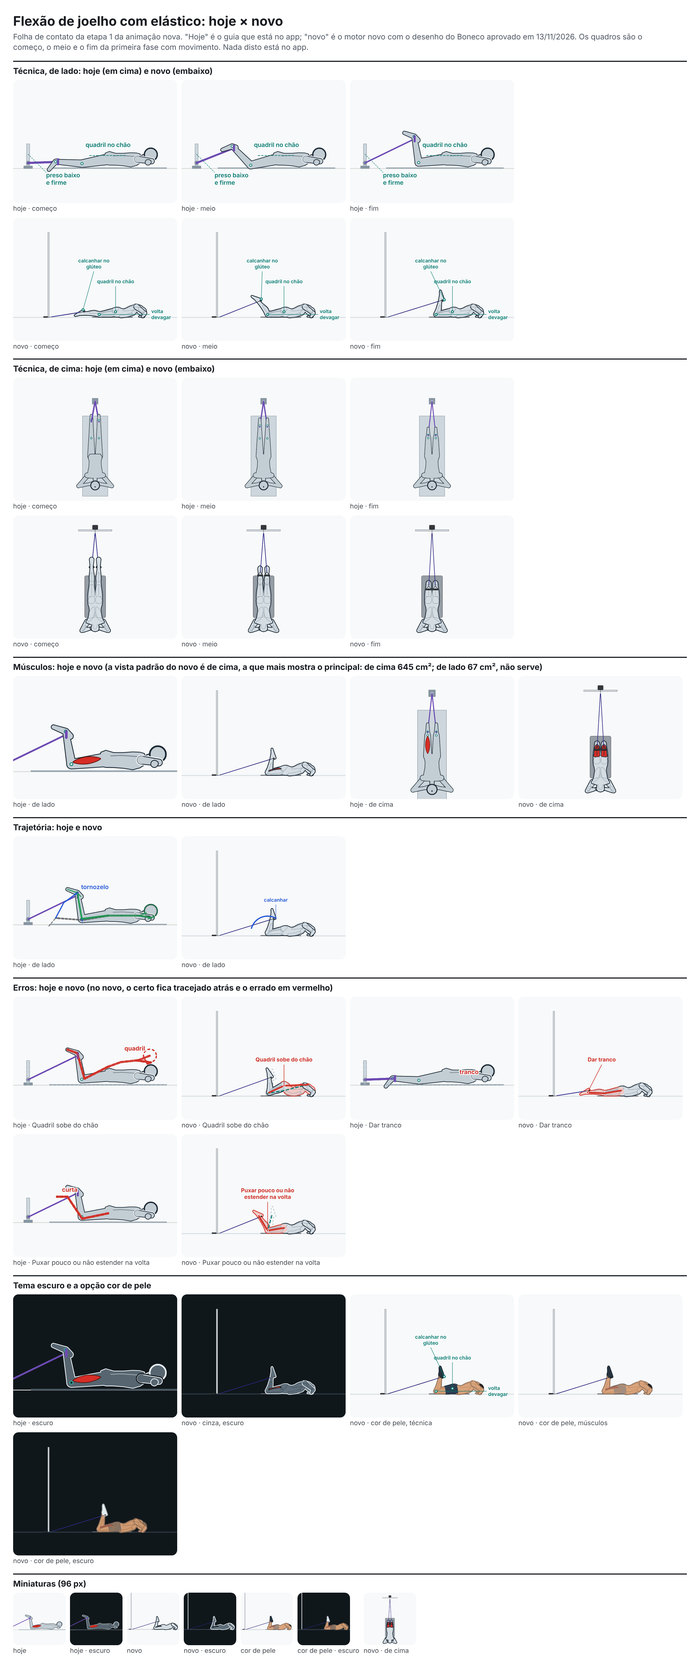
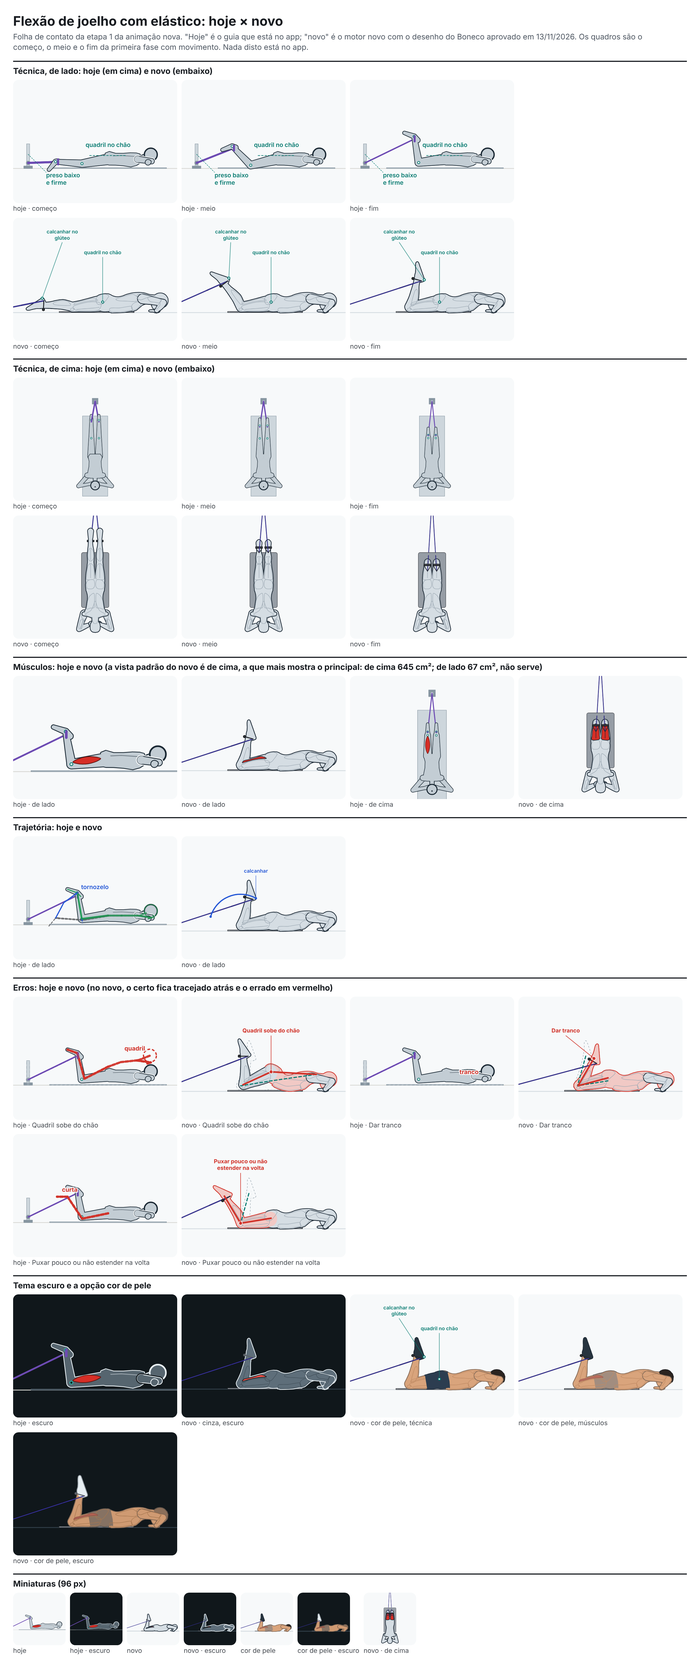
Correção: flexão de joelho com elástico com a porta como cenário, o tórax deitado reto, o pé dentro do pegador e a porta com batente
Claude-Session: https://claude.ai/code/session_01YRzts7dTzBdkrmTDEnq8bW

diff --git a/src/engine/novo/exercicios/flexao-joelho-elastico.ts b/src/engine/novo/exercicios/flexao-joelho-elastico.ts
@@ -1,14 +1,17 @@
 // Flexão de joelho com elástico, no motor novo. Os números vêm da ficha (../dados/movimentos/flexao-joelho-elastico.json);
 // a pose de bruços é a do núcleo ./flexao-joelho.ts. Deitado de bruços num colchonete, a testa no dorso das mãos, o
 // meio do elástico em tubo preso na alça de uma âncora de porta, embaixo de uma porta fechada atrás dos pés, e os
-// pegadores em volta dos dois tornozelos, por trás. Os joelhos dobram trazendo os calcanhares ao glúteo, com o quadril
+// pés enfiados nos pegadores, que dão a volta nos tornozelos, com o tubo saindo de trás. Os joelhos dobram trazendo os calcanhares ao glúteo, com o quadril
 // no colchonete. A porta fica longe o bastante para o elástico já estar um pouco esticado com as pernas estendidas.
+// A porta, a âncora e a parte do tubo perto delas são cenário: o quadro mostra o corpo e o tubo sai pela borda.
 import ficha from '../dados/movimentos/flexao-joelho-elastico.json';
 import type { Esq, Lado } from '../esqueleto';
 import { daFicha, fichaSchema, resolver1 } from '../movimento';
 import type { Exercicio, Quadro } from '../movimento';
 import { chao, colchonete } from '../pecas';
 import type { Peca } from '../pecas';
+import type { PecaPropria } from '../pecas';
+import { pegadorNoTornozelo } from '../pecas-de-cena/pegador-no-tornozelo';
 import { portaComAncora } from '../pecas-de-cena/porta-com-ancora';
 import type { Corpo } from '../tabelas';
 import { obj } from '../tabelas';
@@ -20,33 +23,43 @@ const F = fichaSchema.parse(ficha);
 const f = daFicha(F);
 const CACHE = new WeakMap<Corpo, { zPorta: number }>();
 
-function pose(corpo: Corpo, u: number, sobe = 0): Esq {
+function pose(corpo: Corpo, u: number, sobe = 0, alem = 0): Esq {
   return deitadoDeBrucos(corpo, {
     apoio: obj('colchonete', 'esp'),
     testa: f('testa.altura'),
     punhosMeiaDistancia: f('maos.meiaDistancia'),
-    joelho: mix(f('joelho.inicio'), f('joelho.fim'), u),
+    joelho: mix(f('joelho.inicio'), f('joelho.fim'), u) + alem,
     flexaoPlantar: f('tornozelo.flexaoPlantar'),
     quadrilSobe: sobe,
+    lombar: f('lombar.deitado'),
+    prot: f('escapulas.protracao'),
   });
 }
-/** O centro do pegador, atrás do tornozelo e logo acima do calcanhar. */
-function pegada(corpo: Corpo, e: Esq, k: Lado): V3 {
+/** Onde a fita do pegador se junta, atrás do tornozelo e logo acima do calcanhar: é a ponta do tubo. */
+function ponta(corpo: Corpo, e: Esq, k: Lado): V3 {
   const L = e.lado[k];
-  const tras = mul(L.canela.z, -1);
-  return add(add(L.tornozelo, mul(L.canela.y, f('elastico.acimaDoTornozelo'))), mul(tras, corpo.m('raio.tornozelo') + obj('elastico', 'pegadorDiam') / 2));
+  return add(add(L.tornozelo, mul(L.canela.y, f('elastico.acimaDoTornozelo'))), mul(L.canela.z, -(corpo.m('raio.tornozelo') + obj('elastico', 'fita') * 0.35)));
 }
 /** O caminho do tubo: da ponta de um pegador à alça da âncora e dela à ponta do outro. */
 function tubo(corpo: Corpo, e: Esq, alca: V3) {
-  const ponta = (k: Lado) => {
-    const g = pegada(corpo, e, k);
-    return add(g, mul(norm(sub(alca, g)), obj('elastico', 'fita')));
-  };
   // o tubo dá a volta na alça: os dois trechos chegam a ela a 1 cm um do outro
-  const pts: V3[] = [ponta('R'), add(alca, [-0.5, 0, 0]), add(alca, [0.5, 0, 0]), ponta('L')];
+  const pts: V3[] = [ponta(corpo, e, 'R'), add(alca, [-0.5, 0, 0]), add(alca, [0.5, 0, 0]), ponta(corpo, e, 'L')];
   let comp = 0;
   for (let i = 1; i < pts.length; i++) comp += dist(pts[i - 1]!, pts[i]!);
   return { pts, comp };
+}
+/** O trecho do tubo longe do corpo, até a alça, desenhado como cenário (atrás do corpo e fora do enquadramento). */
+function tuboAteAPorta(pts: V3[], estica: number): PecaPropria {
+  return {
+    t: 'propria',
+    nome: 'tubo-ate-a-porta',
+    cenario: true,
+    desenhar(C, M) {
+      const d = obj('elastico', 'tuboDiam') / Math.sqrt(Math.max(1, estica));
+      C.polilinha(pts, M.estofado[3]!, d + 0.5);
+      C.polilinha(pts, M.estofado[1]!, d);
+    },
+  };
 }
 /** A porta fica onde o elástico estica o que a ficha pede com as pernas quase estendidas. */
 function calibrar(corpo: Corpo) {
@@ -63,17 +76,23 @@ function calibrar(corpo: Corpo) {
 function quadro(corpo: Corpo, u: number, erro?: string): Quadro {
   const c = calibrar(corpo);
   let v = u;
-  if (erro === 'tranco') v = 1 - (1 - u) ** 3;
   if (erro === 'curta') v = mix(f('erro.curta.volta'), f('erro.curta.ida'), u);
-  const e = pose(corpo, v, erro === 'quadril' ? f('erro.quadril.sobe') * u : 0);
+  // tranco: no embalo, os calcanhares passam do fim e o quadril descola um pouco do colchonete
+  const sobe = erro === 'quadril' ? f('erro.quadril.sobe') * u : erro === 'tranco' ? f('erro.tranco.quadril') * u : 0;
+  const e = pose(corpo, v, sobe, erro === 'tranco' ? f('erro.tranco.alem') * u : 0);
   const porta = portaComAncora(c.zPorta, f('ancora.altura'));
   const t = tubo(corpo, e, porta.alca);
   const estica = t.comp / obj('elastico', 'comp');
   const zCol = f('colchonete.z');
-  const pecas: Peca[] = [{ t: 'colchonete', x0: 0, z0: zCol }, ...porta.pecas, { t: 'elastico', pts: t.pts, estica }];
+  // perto do corpo, o tubo é a peça do elástico (no enquadramento); dali até a alça, cenário
+  const [pR, , , pL] = t.pts as [V3, V3, V3, V3];
+  const corte = (p: V3) => add(p, mul(norm(sub(porta.alca, p)), f('elastico.noQuadro')));
+  const cR = corte(pR),
+    cL = corte(pL);
+  const pecas: Peca[] = [{ t: 'colchonete', x0: 0, z0: zCol }, ...porta.pecas, tuboAteAPorta([cR, t.pts[1]!, t.pts[2]!, cL], estica), { t: 'elastico', pts: [pR, cR], estica }, { t: 'elastico', pts: [pL, cL], estica }];
   for (const k of ['R', 'L'] as Lado[]) {
-    const g = pegada(corpo, e, k);
-    pecas.push({ t: 'pegador', pegada: g, eixo: e.lado[k].canela.x, ponta: k === 'R' ? t.pts[0]! : t.pts[t.pts.length - 1]! });
+    const L = e.lado[k];
+    pecas.push(pegadorNoTornozelo(L.canela, L.tornozelo, f('elastico.acimaDoTornozelo'), corpo.m('raio.tornozelo'), k === 'R' ? pR : pL));
   }
   return {
     esq: e,
@@ -81,7 +100,7 @@ function quadro(corpo: Corpo, u: number, erro?: string): Quadro {
     pecas,
     fios: [{ id: 'elastico', comp: t.comp, estica: true }],
     cargas: [],
-    marcas: { pegadaR: pegada(corpo, e, 'R'), alca: porta.alca },
+    marcas: { pegadaR: pR, alca: porta.alca },
   };
 }
 

diff --git a/src/engine/novo/exercicios/flexao-joelho.ts b/src/engine/novo/exercicios/flexao-joelho.ts
@@ -205,6 +205,10 @@ export interface OpcoesDeBrucos {
   flexaoPlantar: number;
   /** Quanto a bacia sobe do colchonete (erro do quadril), em cm; o peito e os joelhos ficam onde estão. */
   quadrilSobe?: number;
+  /** Flexão da lombar além da curva de repouso (graus), deitado (acréscimo de 15/11: o tórax fica deitado reto). */
+  lombar?: number;
+  /** Protração das escápulas (graus da clavícula): os ombros descem para o colchonete com os braços à frente. */
+  prot?: number;
 }
 interface BaseDeBrucos {
   frente: number;
@@ -223,21 +227,22 @@ const AMASSA = 1.5;
 const frenteAoChao = (corpo: Corpo, t: Tronco) => Math.min(peitoAoChao(corpo, t), barrigaAoChao(corpo, t) + AMASSA);
 /** A parte que não muda no ciclo: a inclinação da bacia, a altura dela, a cabeça nas mãos e a coxa no colchonete. */
 function baseDeBrucos(corpo: Corpo, o: OpcoesDeBrucos): BaseDeBrucos {
-  const chave = `${o.apoio}|${o.testa}`;
+  const chave = `${o.apoio}|${o.testa}|${o.lombar ?? 0}`;
   let mapa = BASE_DE_BRUCOS.get(corpo);
   if (!mapa) BASE_DE_BRUCOS.set(corpo, (mapa = new Map()));
   const ja = mapa.get(chave);
   if (ja) return ja;
   // 1) a frente da bacia e a barriga (que amassa AMASSA cm) ficam na mesma altura; o corpo desce até encostar no
   //    colchonete. O peito encosta junto ou fica um pouco acima (os braços estão à frente da cabeça).
-  const t0 = (frente: number) => resolverTronco(corpo, { pelve: [0, 0, 0], frente });
+  const L0 = o.lombar ?? 0;
+  const t0 = (frente: number) => resolverTronco(corpo, { pelve: [0, 0, 0], frente, lombar: L0 });
   const frente = resolver1((fr) => pelveAoChao(corpo, t0(fr)) - Math.min(peitoAoChao(corpo, t0(fr)), barrigaAoChao(corpo, t0(fr)) + AMASSA), 70, 110, 30);
   const tf = t0(frente);
   const yP = o.apoio - Math.min(peitoAoChao(corpo, tf), pelveAoChao(corpo, tf), barrigaAoChao(corpo, tf) + AMASSA);
   // 2) a testa apoia no dorso das mãos
-  const cervical = resolver1((c) => cabecaAoChao(corpo, resolverTronco(corpo, { pelve: [0, yP, 0], frente, cervical: c })) - o.testa, -40, 60, 30);
+  const cervical = resolver1((c) => cabecaAoChao(corpo, resolverTronco(corpo, { pelve: [0, yP, 0], frente, lombar: L0, cervical: c })) - o.testa, -40, 60, 30);
   // 3) a coxa, reta, encosta no colchonete
-  const t = resolverTronco(corpo, { pelve: [0, yP, 0], frente, cervical });
+  const t = resolverTronco(corpo, { pelve: [0, yP, 0], frente, lombar: L0, cervical });
   const solto: PoseBraco = { umero: [0, -1, 0], antebraco: [0, -1, 0], polo: [0, 0, -1], mao: { polegar: [0, 0, 1] } };
   const coxa = (a: number) => {
     const p: PosePerna = { coxa: noPlano(a), canela: noPlano(a), polo: noPlano(a - 90) };
@@ -253,8 +258,9 @@ function baseDeBrucos(corpo: Corpo, o: OpcoesDeBrucos): BaseDeBrucos {
 export function deitadoDeBrucos(corpo: Corpo, o: OpcoesDeBrucos): Esq {
   const m = (id: string) => corpo.m(id);
   const b = baseDeBrucos(corpo, o);
+  const L0 = o.lombar ?? 0;
   let frente = b.frente,
-    lombar = 0,
+    lombar = L0,
     yP = b.yP,
     cervical = b.cervical;
   const sobe = o.quadrilSobe ?? 0;
@@ -262,10 +268,11 @@ export function deitadoDeBrucos(corpo: Corpo, o: OpcoesDeBrucos): Esq {
     // a bacia sobe e gira (o quadril dobra), a lombar dobra o mesmo tanto ao contrário: o peito fica no colchonete,
     // na mesma inclinação, e a testa continua nas mãos
     yP = b.yP + sobe;
-    const tr = (L: number, c = b.cervical) => resolverTronco(corpo, { pelve: [0, yP, 0], frente: b.frente + L, lombar: -L, cervical: c });
-    lombar = -resolver1((L) => frenteAoChao(corpo, tr(L)) - o.apoio, 0, 70, 30);
-    frente = b.frente - lombar;
-    cervical = resolver1((c) => cabecaAoChao(corpo, tr(-lombar, c)) - o.testa, -40, 60, 30);
+    const tr = (L: number, c = b.cervical) => resolverTronco(corpo, { pelve: [0, yP, 0], frente: b.frente + L, lombar: L0 - L, cervical: c });
+    const giro = resolver1((L) => frenteAoChao(corpo, tr(L)) - o.apoio, 0, 70, 30);
+    lombar = L0 - giro;
+    frente = b.frente + giro;
+    cervical = resolver1((c) => cabecaAoChao(corpo, tr(giro, c)) - o.testa, -40, 60, 30);
   }
   const t = resolverTronco(corpo, { pelve: [0, yP, 0], frente, lombar, cervical });
   // as mãos lado a lado, espalmadas no chão sob a testa, com os dedos para o meio e os cotovelos para fora
@@ -273,7 +280,7 @@ export function deitadoDeBrucos(corpo: Corpo, o: OpcoesDeBrucos): Esq {
   const fronte = cab.reduce((a, p) => (p[1] < a[1] ? p : a));
   const braco = (k: Lado): PoseBraco => {
     const s = sinal(k);
-    return { punho: [s * o.punhosMeiaDistancia, m('raio.punho') * 0.85, fronte[2]], polo: [s, 0.7, -0.1], mao: { polegar: [0, 0, -1], dedos: [-s, 0, 0], forma: 'aberta' } };
+    return { punho: [s * o.punhosMeiaDistancia, m('raio.punho') * 0.85, fronte[2]], polo: [s, 0.7, -0.1], mao: { polegar: [0, 0, -1], dedos: [-s, 0, 0], forma: 'aberta' }, prot: o.prot ?? 0 };
   };
   // a coxa vai do quadril ao joelho, que fica no colchonete; a canela gira em torno do joelho
   const perna = (k: Lado): PosePerna => {

diff --git a/src/engine/novo/pecas-de-cena/porta-com-ancora.ts b/src/engine/novo/pecas-de-cena/porta-com-ancora.ts
@@ -1,15 +1,17 @@
 // A porta fechada com a âncora de porta embaixo: o ponto firme e baixo onde o elástico prende (flexão de joelho com
 // elástico e, depois, os exercícios com elástico preso na porta). As medidas vêm de ../dados/objetos/porta.json.
 // A espuma da âncora fica do lado de lá da porta; a fita passa pelo vão de baixo e faz uma alça do lado de cá, onde o
-// tubo do elástico dá a volta. A porta é cenário (atrás do corpo e fora do enquadramento); a âncora não.
+// tubo do elástico dá a volta. A porta (folha, batente e maçaneta) e a âncora são cenário: ficam atrás do corpo e fora
+// do enquadramento, e o quadro as corta na borda.
 import type { Prim } from '../desenho';
 import type { PecaPropria } from '../pecas';
 import { MAT, retArred } from '../realista/base.mjs';
 import { obj } from '../tabelas';
 import type { V3 } from '../vec';
 
-/** A porta pintada de branco, em quatro tons (do traço ao mais claro). */
-const PORTA = ['#8C929A', '#C9CED4', '#EDEFF1', '#5E646C'];
+/** A folha pintada de branco e o batente em madeira clara, em quatro tons (do traço ao mais claro). */
+const FOLHA = ['#8C929A', '#C9CED4', '#EDEFF1', '#5E646C'];
+const BATENTE = ['#7A6650', '#A88F72', '#D2BDA2', '#4F4232'];
 /** A espuma da âncora (preta) e a fita (cinza). */
 const ESPUMA = MAT.borracha;
 const FITA = '#4A4F57';
@@ -18,17 +20,21 @@ const p = (id: string) => obj('porta', id);
 
 /**
  * A porta com a face do lado de quem treina no plano z = `zFace` (a pessoa fica do lado de +z) e a âncora no meio da
- * largura. Devolve os volumes, as duas peças desenhadas e o ponto onde o tubo dá a volta (a ponta da alça).
+ * largura. Devolve os volumes, as peças desenhadas e o ponto onde o tubo dá a volta (a ponta da alça).
  */
 export function portaComAncora(zFace: number, alturaDaAlca: number): { prims: Prim[]; pecas: PecaPropria[]; alca: V3 } {
   const esp = p('esp'),
     alt = p('altura'),
     larg = p('larg'),
-    vao = p('vao');
+    vao = p('vao'),
+    bl = p('batenteLarg'),
+    bp = p('batenteProf');
   const alca: V3 = [0, alturaDaAlca, zFace + p('alcaComp')];
   const espuma: V3 = [0, p('ancoraAlt') / 2, zFace - esp - p('ancoraLarg') / 2 - 0.5];
   const fita: V3[] = [[0, vao / 2, espuma[2] + p('ancoraLarg') / 2], [0, vao / 2, zFace], alca];
   const caixa = (o: V3, meias: V3, cls: string): Prim => ({ t: 'caixa', ref: { o, x: [1, 0, 0], y: [0, 1, 0], z: [0, 0, 1] }, meias, cls, vies: -40 });
+  // o batente: dois montantes e a travessa de cima, em volta da folha, um pouco mais fundos que ela
+  const zB = zFace - esp / 2 - bp / 2;
   return {
     alca,
     prims: [
@@ -43,12 +49,21 @@ export function portaComAncora(zFace: number, alturaDaAlca: number): { prims: Pr
         cenario: true,
         fixa: [zFace],
         desenhar(C) {
-          C.prisma(retArred(larg, alt, 1, 2), [0, vao + alt / 2, zFace - esp], [1, 0, 0], [0, 1, 0], [0, 0, esp], PORTA);
+          for (const s of [-1, 1]) C.prisma(retArred(bl, vao + alt + bl, 0.4, 1), [s * (larg / 2 + bl / 2), (vao + alt + bl) / 2, zB - bp / 2], [1, 0, 0], [0, 1, 0], [0, 0, bp + esp / 2], BATENTE);
+          C.prisma(retArred(larg + 2 * bl, bl, 0.4, 1), [0, vao + alt + bl / 2, zB - bp / 2], [1, 0, 0], [0, 1, 0], [0, 0, bp + esp / 2], BATENTE);
+          C.prisma(retArred(larg, alt, 1, 2), [0, vao + alt / 2, zFace - esp], [1, 0, 0], [0, 1, 0], [0, 0, esp], FOLHA);
+          // a maçaneta, do lado oposto às dobradiças: a roseta e a alavanca
+          const xm = larg / 2 - p('macanetaDaBorda'),
+            ym = p('macanetaAltura');
+          C.cilindro([xm, ym, zFace], [xm, ym, zFace + 1], 2.6, MAT.cromo, { lados: 14 });
+          C.cilindro([xm, ym, zFace + 1], [xm, ym, zFace + 5.5], 0.9, MAT.cromo, { lados: 10 });
+          C.cilindro([xm, ym, zFace + 5.5], [xm - 11, ym, zFace + 5.5], 0.9, MAT.cromo, { lados: 10 });
         },
       },
       {
         t: 'propria',
         nome: 'ancora',
+        cenario: true,
         fixa: [zFace, alturaDaAlca],
         desenhar(C) {
           C.prisma(retArred(p('ancoraComp'), p('ancoraLarg'), 1.2, 3), [espuma[0], 0, espuma[2]], [1, 0, 0], [0, 0, 1], [0, p('ancoraAlt'), 0], ESPUMA);

diff --git a/src/engine/novo/pecas-de-cena/pegador-no-tornozelo.ts b/src/engine/novo/pecas-de-cena/pegador-no-tornozelo.ts
@@ -1,0 +1,33 @@
+// O pegador do elástico em tubo com o pé enfiado nele: a pegada fica atravessada na frente do tornozelo, logo acima do
+// peito do pé, e a fita do pegador dá a volta pelos dois lados do tornozelo até a ponta do tubo, atrás. É assim que a
+// ficha da técnica prende o elástico ("as pontas, ou os pegadores, em volta dos dois tornozelos, por trás, logo acima
+// do calcanhar"). As medidas do pegador são as do elástico em tubo (../dados/objetos.json).
+import type { Ref } from '../vec';
+import type { PecaPropria } from '../pecas';
+import { obj } from '../tabelas';
+import { add, mul } from '../vec';
+import type { V3 } from '../vec';
+
+/**
+ * `canela`: o referencial da canela (y sobe para o joelho, z é a frente da canela); `tornozelo`: o centro do tornozelo;
+ * `acima`: quanto a pegada fica acima do centro do tornozelo, ao longo da canela; `raio`: o raio do tornozelo;
+ * `ponta`: a ponta do tubo, atrás do tornozelo.
+ */
+export function pegadorNoTornozelo(canela: Ref, tornozelo: V3, acima: number, raio: number, ponta: V3): PecaPropria {
+  const L = obj('elastico', 'pegadorComp') / 2,
+    r = obj('elastico', 'pegadorDiam') / 2;
+  const centro = add(add(tornozelo, mul(canela.y, acima)), mul(canela.z, raio + r));
+  const a = add(centro, mul(canela.x, -L)),
+    b = add(centro, mul(canela.x, L));
+  // a fita sai das pontas da pegada, passa rente aos lados do tornozelo e se junta atrás, na ponta do tubo
+  const lado = (s: number) => add(add(tornozelo, mul(canela.y, acima)), mul(canela.x, s * (raio + 0.6)));
+  return {
+    t: 'propria',
+    nome: 'pegador',
+    desenhar(C, M) {
+      C.polilinha([a, lado(-1), ponta], M.borracha[1]!, 1.2);
+      C.polilinha([b, lado(1), ponta], M.borracha[1]!, 1.2);
+      C.cilindro(a, b, r, M.borracha, { lados: 12 });
+    },
+  };
+}

diff --git a/src/engine/novo/regras/flexao-joelho.ts b/src/engine/novo/regras/flexao-joelho.ts
@@ -138,7 +138,7 @@ export const REGRAS_FLEXAO_JOELHO: Record<string, Regra> = {
     return { medido: `o elástico estica ${f1(ini)} vez com as pernas estendidas e ${f1(fim)} vezes no fim (de ${f1(a)} a ${f1(b)} no caminho)`, ok: ini >= 1.05 && fim > ini && Math.abs(b - fim) < 0.01 };
   },
   'elastico-atras-dos-tornozelos': (q) => {
-    // o pegador fica do lado de trás da canela, perto do calcanhar, e não sai dali
+    // o pé fica dentro do pegador e o tubo sai de trás da canela, perto do calcanhar, e não sai dali
     const d = q.map((x) => {
       const L = x.esq.lado.R,
         g = x.marcas.pegadaR!;
@@ -147,6 +147,6 @@ export const REGRAS_FLEXAO_JOELHO: Record<string, Regra> = {
     });
     const [a, b] = faixa(d.map((x) => x.atras)),
       [c, e] = faixa(d.map((x) => x.acima));
-    return { medido: `o centro do pegador fica de ${f1(a)} a ${f1(b)} cm atrás do centro do tornozelo e de ${f1(c)} a ${f1(e)} cm acima dele, ao longo da canela`, ok: a > 0 && e <= 8 };
+    return { medido: `o tubo sai da fita do pegador de ${f1(a)} a ${f1(b)} cm atrás do centro do tornozelo e de ${f1(c)} a ${f1(e)} cm acima dele, ao longo da canela`, ok: a > 0 && e <= 8 };
   },
 };

diff --git a/docs/revisoes/animacao-nova/lote-6/flexao-joelho-elastico.md b/docs/revisoes/animacao-nova/lote-6/flexao-joelho-elastico.md
@@ -11,7 +11,7 @@ De 15/11/2026. Segunda animação da família das flexões de joelho deitado. **
 
 ## Como a pose é montada
 
-Deitado de bruços, a cabeça para +z, os pés para −z, a porta atrás dos pés. Uma vez por corpo: a bacia inclina até a frente da bacia e a barriga ficarem na mesma altura e o corpo desce até encostar no colchonete (a barriga do Boneco é mais alta que o peito e a bacia: ela amassa 1,5 cm, o mesmo que a conferência aceita no chão); o pescoço dobra até a testa chegar ao dorso das mãos, espalmadas no chão sob a testa, com os cotovelos para fora; a coxa, reta, encosta no colchonete. No ciclo, só a canela gira em torno do joelho. A porta é posta onde o tubo estica 1,2 vez com as pernas quase estendidas. Contatos presos: `pelve`, `joelho.R`, `joelho.L`, `mao.R`, `mao.L`.
+Deitado de bruços, a cabeça para +z, os pés para −z, a porta atrás dos pés. Uma vez por corpo: com a lombar 10° mais achatada que em pé, a bacia inclina até a frente da bacia e o peito ficarem na mesma altura e o corpo desce até encostar no colchonete (a barriga do Boneco é mais alta que o peito e a bacia: ela amassa até 1,5 cm, o mesmo que a conferência aceita no chão); o tórax fica deitado reto; as escápulas vão 20° à frente, e os ombros descem para o colchonete (o centro do ombro fica a 18 cm do chão); o pescoço dobra até a testa chegar ao dorso das mãos, espalmadas no chão sob a testa, com os cotovelos para fora; a coxa, reta, encosta no colchonete. No ciclo, só a canela gira em torno do joelho. A porta é posta onde o tubo estica 1,2 vez com as pernas quase estendidas. Contatos presos: `pelve`, `joelho.R`, `joelho.L`, `mao.R`, `mao.L`.
 
 ## O que a fonte pede × o que o boneco faz (medido) × confere?
 
@@ -19,18 +19,18 @@ Deitado de bruços, a cabeça para +z, os pés para −z, a porta atrás dos pé
 |---|---|---|---|
 | Deitado de bruços num colchonete, quadril encostado | consenso | a frente da bacia fica a 0 cm do tampo do colchonete; a barriga, 1,5 cm para dentro dele (amassa); a bacia e os joelhos não saem do lugar (0 cm) | sim |
 | Testa apoiada nos braços dobrados | consenso | a testa encosta no dorso das mãos (0 cm); cotovelos dobrados 114°, para fora; as mãos não saem do lugar | sim, com as mãos espalmadas no lugar dos antebraços cruzados (ver "O que não ficou bom") |
-| O meio do elástico preso num ponto firme e baixo, perto do chão | consenso | o tubo dá a volta na alça da âncora, a 1,5 cm do chão, 159 cm atrás do quadril; a espuma da âncora fica do lado de lá da porta | sim |
-| As pontas (pegadores) em volta dos dois tornozelos, por trás, logo acima do calcanhar | consenso | o centro do pegador fica 5,1 cm atrás do centro do tornozelo e 4 cm acima dele, ao longo da canela, no ciclo inteiro | sim |
+| O meio do elástico preso num ponto firme e baixo, perto do chão | consenso | o tubo dá a volta na alça da âncora, a 1,5 cm do chão, 149 cm atrás do quadril; a espuma da âncora fica do lado de lá da porta | sim |
+| As pontas (pegadores) em volta dos dois tornozelos, por trás, logo acima do calcanhar | consenso | o pé fica enfiado no pegador: a pegada atravessa a frente do tornozelo, 4 cm acima do centro dele, e a fita dá a volta pelos lados e se junta atrás, onde sai o tubo (6,6 cm atrás do centro do tornozelo), no ciclo inteiro | sim |
 | Afastado até o elástico ficar um pouco esticado com as pernas estendidas | consenso | 1,2 vez o comprimento em repouso (146 cm de 122) com o joelho a 12° | sim (o 1,2 é escolha de desenho) |
 | Flexão em ~1 s, trazendo os calcanhares ao glúteo, quadril no chão | consenso | 1,1 s; o joelho vai de 12° a 115°; o tornozelo sobe de 9 a 48 cm e vem de 83 a 29 cm atrás do quadril | sim |
 | Fim: joelhos bem dobrados, pausa curta | consenso | 115° de joelho; 0,5 s parado | sim (o 115° é escolha de desenho) |
 | Volta de ~2–3 s, até quase estender | consenso | 2,4 s, até 12° | sim |
-| O elástico estica mais com os joelhos dobrados | consenso (física) | de 1,2 vez (146 cm) com as pernas estendidas a 2,2 vezes (262 cm) no fim; o tubo afina ao esticar; não passa das 3 vezes do fabricante | sim |
+| O elástico estica mais com os joelhos dobrados | consenso (física) | de 1,2 vez (146 cm) com as pernas estendidas a 2,2 vezes (265 cm) no fim; o tubo afina ao esticar; não passa das 3 vezes do fabricante | sim |
 
-Conferência automática: **0 falha, 3 avisos**. Amplitudes: joelho 115°; cotovelo 114°; elevação do braço 129°; flexão plantar do tornozelo 55° (o pé solto, esticado, para a ponta não bater no chão: fica a 3,5 cm dele); ponto mais baixo do corpo −0,1 cm. Os avisos:
+Conferência automática: **0 falha, 3 avisos**. Amplitudes: joelho 115°; cotovelo 121°; elevação do braço 161° (os braços à frente da cabeça); extensão do punho 34°; flexão plantar do tornozelo 55° (o pé solto, esticado, para a ponta não bater no chão: fica a 3,5 cm dele); ponto mais baixo do corpo −0,1 cm. Os avisos:
 
 1. **Cabos**: a conferência comum espera o elástico mais esticado "em cima" (u = 0), como no agachamento com elástico. Aqui a ficha diz o contrário (mais esticado com os joelhos dobrados, no fim): o aviso é esperado, e a regra `elastico-estica-mais-no-fim` mede o que esta ficha pede (ok).
-2. Provisórios: `joelho.fim` (115°), `tornozelo.flexaoPlantar` (55°), `testa.altura`, `maos.meiaDistancia`, `colchonete.z`, `ancora.altura`.
+2. Provisórios: `joelho.fim` (115°), `tornozelo.flexaoPlantar` (55°), `lombar.deitado` (10°), `escapulas.protracao` (20°), `testa.altura`, `maos.meiaDistancia`, `colchonete.z`, `elastico.noQuadro`, `ancora.altura`.
 3. Músculos: de lado, o principal (posteriores) aparece pouco (67 cm²); a vista padrão do modo Músculos é **de cima** (645 cm²), onde a parte de trás das coxas fica virada para quem olha.
 
 O item "Ritmo" sai "ok, sem movimento": a conferência acompanha quadril, cabeça, mãos, cotovelo e joelho, e todos ficam parados neste exercício (só a canela e o pé se mexem). O ritmo da canela não foi medido pela conferência comum; o perfil de velocidade é o mesmo `suave` das fases.
@@ -40,7 +40,7 @@ O item "Ritmo" sai "ok, sem movimento": a conferência acompanha quadril, cabeç
 | Erro (texto do app) | O que o boneco faz (medido) |
 |---|---|
 | Quadril sobe do chão | o centro da bacia sobe 12 cm (de 14,2 a 26,2 cm; a frente da bacia sai do colchonete e fica a 8,6 cm do chão) e o quadril dobra 49°; a lombar dobra 35° ao contrário para o peito ficar no colchonete; os joelhos não saem do lugar |
-| Dar tranco | o quadro parado é o meio da subida: o calcanhar já está em 7/8 do caminho (no certo, na metade) |
+| Dar tranco | no embalo, os calcanhares passam do fim: o joelho dobra 135° (115° no certo) e a bacia descola 4 cm do colchonete. O quadro parado é o fim da subida |
 | Puxar pouco ou não estender na volta | o joelho vai só de 38° a 69° (12° a 115° no certo) |
 
 ## Correções já feitas que esta animação respeita (`correcoes-ja-feitas.md`)
@@ -53,10 +53,15 @@ O realçado bate com o conteúdo (principal: posteriores da coxa; sem secundári
 
 ## O que não ficou bom
 
-- **De lado, o corpo fica pequeno no quadro**: a porta fica 159 cm atrás do quadril, porque o tubo da tabela tem 122 cm em repouso e precisa ficar só um pouco esticado com as pernas estendidas. A porta é cenário (fora do enquadramento), mas a âncora e o tubo entram. Na animação de hoje o poste ficava a 130 cm, com uma faixa de 50 cm sem medida.
-- O tronco não fica reto: o peito fica um pouco acima do colchonete e os ombros a 27 cm do chão, porque os braços estão à frente da cabeça e a barriga do Boneco é mais alta que o peito. A barriga entra 1,5 cm no colchonete.
-- A ficha diz "testa apoiada nos braços dobrados"; aqui a testa apoia no dorso das mãos espalmadas, lado a lado. Cruzar os antebraços deixaria o corpo assimétrico (a conferência de simetria falharia).
+- A ficha diz "testa apoiada nos braços dobrados"; aqui a testa apoia no dorso das mãos espalmadas, lado a lado, com os cotovelos dobrados para fora. Cruzar os antebraços deixaria o corpo assimétrico (a conferência de simetria falharia).
 - A canela não é acompanhada pela conferência de ritmo (ver acima).
-- O pegador é desenhado como a pegada rígida do cartão, atravessada atrás do tornozelo: na vida real o pé passa pela alça do pegador.
-- O vão sob a porta (1 cm) e a alça da âncora (6 cm) são provisórios; a porta é desenhada lisa, sem batente nem maçaneta.
 - O colchonete da tabela tem 100 cm (provisório): cobre do peito aos joelhos; as mãos e a cabeça ficam no chão à frente dele.
+
+## Correção de 15/11/2026 (pedido de quem integra)
+
+- **Enquadramento:** a porta, a âncora e o tubo além de 30 cm do tornozelo viraram cenário (atrás do corpo e fora do enquadramento); o tubo sai pela borda do quadro em direção à porta. O corpo passa a ocupar a largura do quadro.
+- **Pose de bruços:** a lombar achata 10° e as escápulas vão 20° à frente (dois acréscimos opcionais no núcleo, `lombar` e `prot` em `OpcoesDeBrucos`): o tórax fica deitado reto e o centro do ombro desce de 27 para 18 cm do chão.
+- **Pegador:** peça nova `pecas-de-cena/pegador-no-tornozelo.ts`: o pé fica enfiado no pegador, com a pegada na frente do tornozelo e a fita dando a volta até o tubo, atrás.
+- **Porta:** ganhou batente (dois montantes e a travessa, em madeira) e maçaneta (roseta e alavanca), no gerador realista; medidas do batente e da maçaneta provisórias.
+- **Rótulos:** três → dois ("quadril no chão", "calcanhar no glúteo").
+- **Erro "dar tranco":** o quadro parado (o fim da subida, que a folha mostra) era igual ao certo; agora os calcanhares passam do fim no embalo e a bacia descola.
